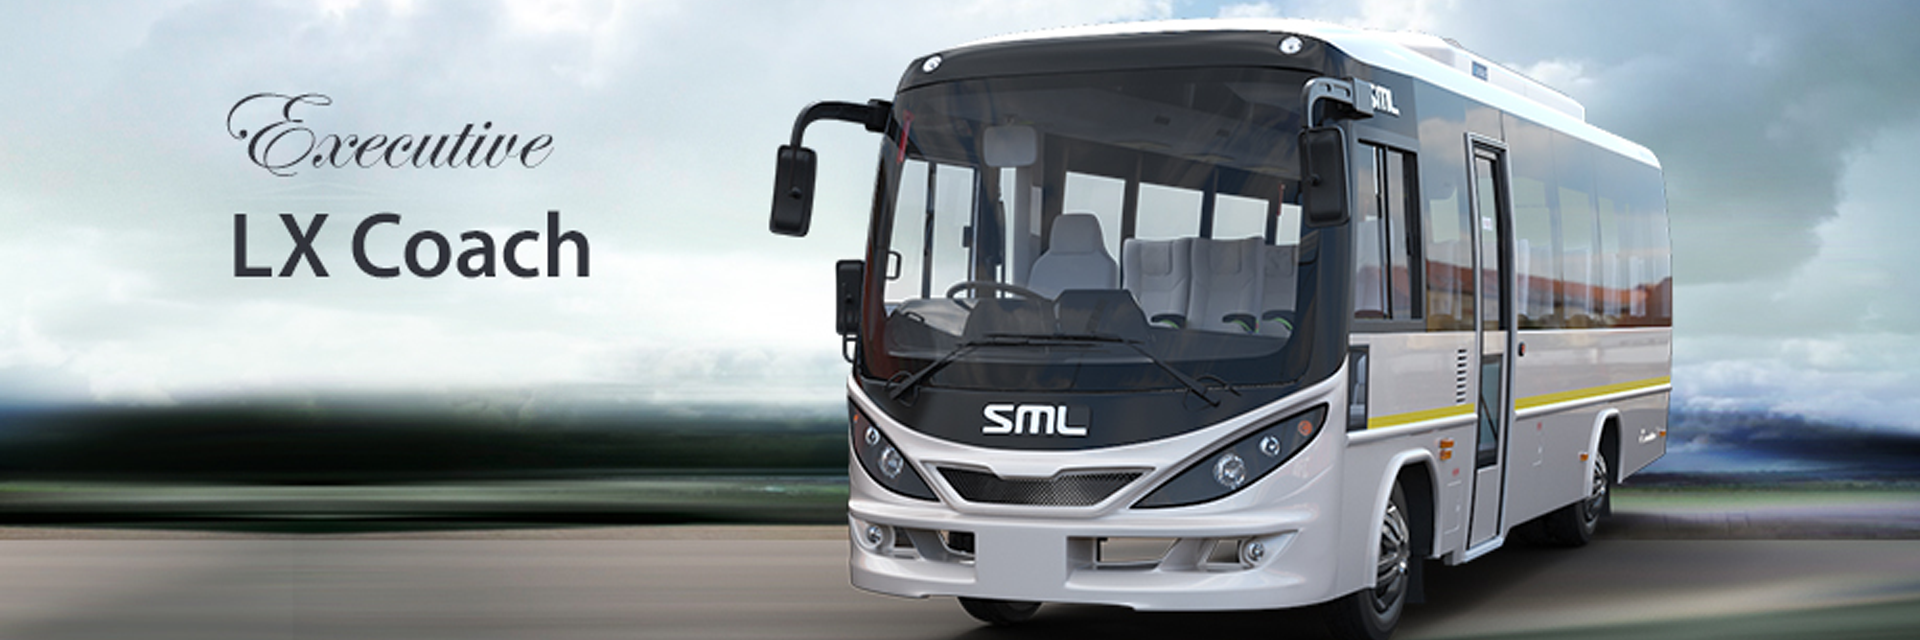
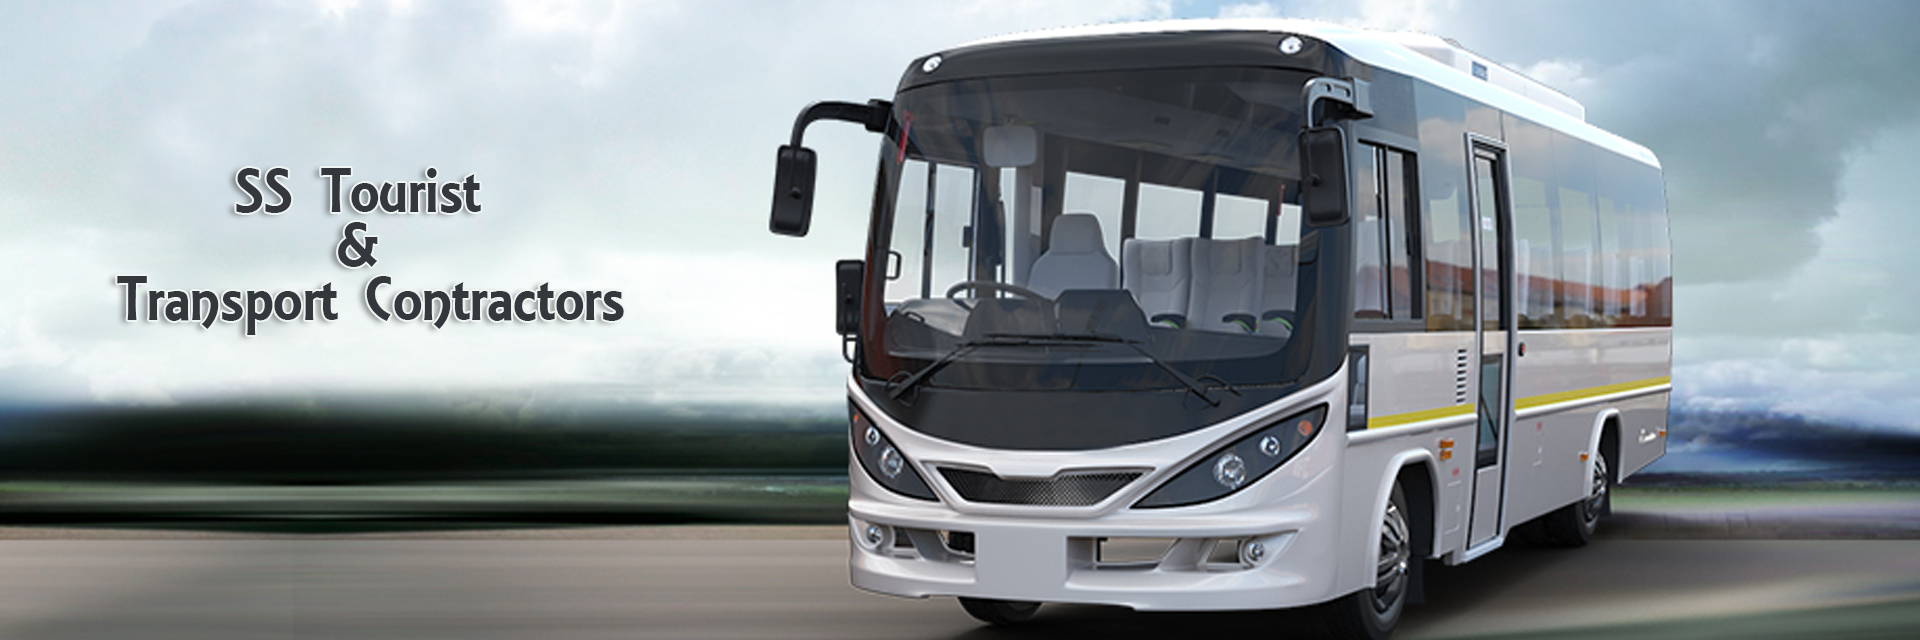
Add files via upload

diff --git a/index.html b/index.html
@@ -198,13 +198,13 @@
               ></a
             >
           </li>
-          <li class="nav-item">
+          <!-- <li class="nav-item">
             <a class="nav-link" href="#faq"
               ><span style="font-size: 18px; color: #1a4668"
                 ><b>FAQ</b></span
               ></a
             >
-          </li>
+          </li> -->
           <li class="nav-item">
             <a class="nav-link" href="#contact_us"
               ><span style="font-size: 18px; color: #1a4668"
@@ -233,7 +233,7 @@
                 color: rgb(83, 83, 83);
               "
               >Welcome to</span
-            ><b> SS Tourist & Transport Contractor</b></i
+            ><b> SS Tourist & Transport Contractors</b></i
           >
           <p
             class="text-center"
@@ -257,10 +257,10 @@
       >
         <div class="carousel-inner">
           <div class="carousel-item active">
-            <img src="image/bus.jpg" class="d-block w-100" alt="..." />
+            <img src="image/bus.png" class="d-block w-100" alt="..." />
           </div>
           <div class="carousel-item">
-            <img src="image/bus.png" class="d-block w-100" alt="..." />
+            <img src="image/bus.jpg" class="d-block w-100" alt="..." />
           </div>
           <div class="carousel-item">
             <img src="image/car.jpg" class="d-block w-100" alt="..." />
@@ -468,10 +468,10 @@
       </div>
     </div>
 
-    <div id="faq"></div>
-    <br /><br /><br /><br /><br />
+    <!-- <div id="faq"></div>
+    <br /><br /><br /><br /><br /> -->
 
-    <div class="container">
+    <!-- <div class="container">
       <h3
         class="center"
         style="text-align: center; font-style: italic; color: #1a4668"
@@ -602,10 +602,10 @@
           </div>
         </div>
       </div>
-    </div>
+    </div> -->
 
     <div id="contact_us"></div>
-    <br /><br /><br /><br /><br />
+    <!-- <br /><br /><br /><br /><br /> -->
 
     <footer
       class="section footer-classic context-dark bg-image"
@@ -622,7 +622,7 @@
         <div class="row row-30">
           <div class="col-md-4 col-xl-4">
             <div class="pr-xl-4">
-                <a href="https://www.instagram.com/sstourist_transport_contractor/">
+                <!-- <a href="https://www.instagram.com/sstourist_transport_contractor/">
               <img
                 class="brand-logo-light"
                 src="image/instagram.jpeg"
@@ -632,19 +632,22 @@
                 style="border-radius: 10px"
               />
             </a>
-              <br /><br />
+              <br /><br /> -->
+              <dl class="contact-list">
+                <dt><h5>Address:</h5></dt>
+                <dd>S.S.Tourist And Transport Contractors, 		
+                  #1580, Beside Shivashakti Electricals, 		
+                  Vivekanada Road, Tumkur - 572101.</dd>
+              </dl>
             </div>
           </div>
           <div class="col-md-4">
             <h5>Contacts</h5>
-            <!-- <dl class="contact-list">
-              <dt>Address:</dt>
-              <dd>798 South Park Avenue, Jaipur, Raj</dd>
-            </dl> -->
+
             <dl class="contact-list">
               <dt>Phone No:</dt>
               <dd>
-                <a href="tel:7411505030"><i class="fa fa-phone-square fa-1x" aria-hidden="true"></i> 7411505030 </a><br />
+                <a href="tel:7411505030"><i class="fa fa-phone-square fa-1x" aria-hidden="true"></i> 7411505030 (Call Now)</a><br />
                 <a href="tel:9886634526"><i class="fa fa-phone-square fa-1x" aria-hidden="true"></i> 9886634526</a>
               </dd>
             </dl>
